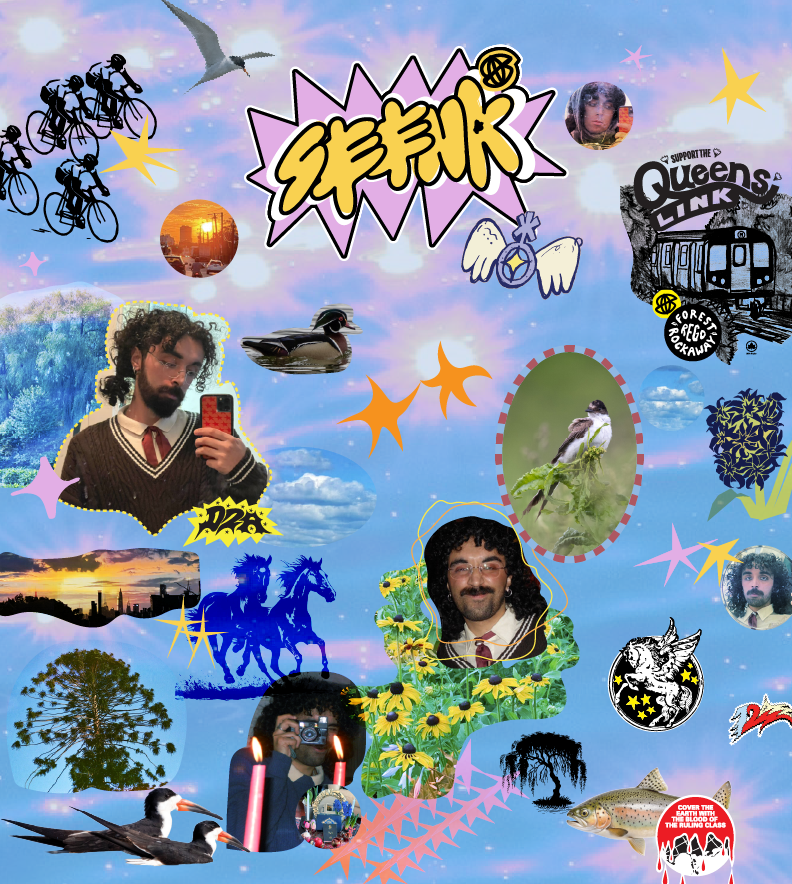
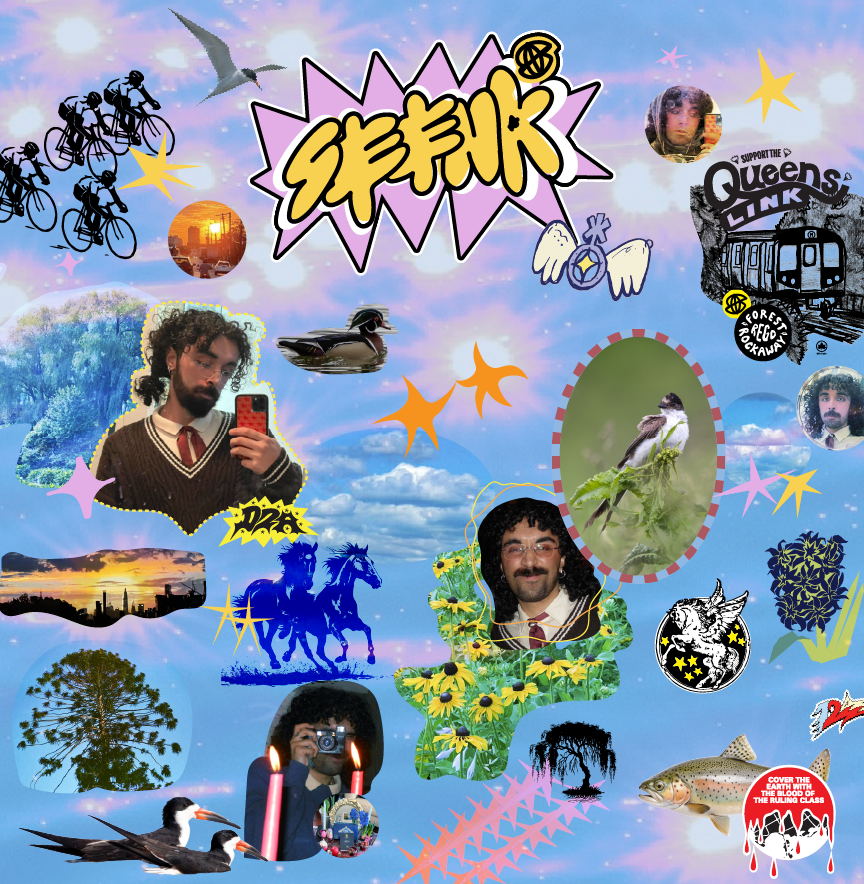
v0.2.7

diff --git a/links.html b/links.html
@@ -34,7 +34,7 @@
         }
 
         body {
-            background: #0f0f14;
+            background: #3e3e70;
             display: flex;
             justify-content: center;
             align-items: stretch;
@@ -61,7 +61,7 @@
         .blob-1 {
             width: 55vw;
             height: 55vw;
-            background: rgba(147, 51, 234, 0.35);
+            background: rgba(140, 38, 235, 0.582);
             top: -10%;
             left: -15%;
             animation: drift-1 16s ease-in-out infinite alternate;
@@ -69,7 +69,7 @@
         .blob-2 {
             width: 45vw;
             height: 45vw;
-            background: rgba(251, 146, 60, 0.3);
+            background: rgba(207, 94, 2, 0.702);
             top: 30%;
             right: -10%;
             animation: drift-2 19s ease-in-out infinite alternate;
@@ -77,7 +77,7 @@
         .blob-3 {
             width: 40vw;
             height: 40vw;
-            background: rgba(125, 211, 252, 0.28);
+            background: rgba(100, 200, 246, 0.862);
             bottom: -5%;
             left: 20%;
             animation: drift-3 14s ease-in-out infinite alternate;
@@ -85,7 +85,7 @@
         .blob-4 {
             width: 30vw;
             height: 30vw;
-            background: rgba(192, 38, 211, 0.2);
+            background: rgba(191, 38, 211, 0.532);
             top: 55%;
             left: -5%;
             animation: drift-4 21s ease-in-out infinite alternate;

diff --git a/archive.html b/archive.html
@@ -293,7 +293,7 @@
                     
                     <!-- Contact Links -->
                     <div class="intro-contact">
-                        <a href="mailto:me@seena.design" class="contact-link"><span class="arr">↗</span> email</a>
+                        <a href="mailto:other@seena.design?subject=Contact Req from Site" class="contact-link"><span class="arr">↗</span> email</a>
                         <a href="https://instagram.com/seena.d2a" target="_blank" class="contact-link"><span class="arr">↗</span> instagram</a>
                     </div>
                 </div>

diff --git a/index.html b/index.html
@@ -39,7 +39,7 @@
                     
                     <!-- Contact Links -->
                     <div class="intro-contact">
-                        <a href="mailto:me@seena.design" class="contact-link"><span class="arr">↗</span> email</a>
+                        <a href="mailto:other@seena.design?subject=Contact Req from Site" class="contact-link"><span class="arr">↗</span> email</a>
                         <a href="https://instagram.com/seena.d2a" target="_blank" class="contact-link"><span class="arr">↗</span> instagram</a>
                     </div>
                 </div>
